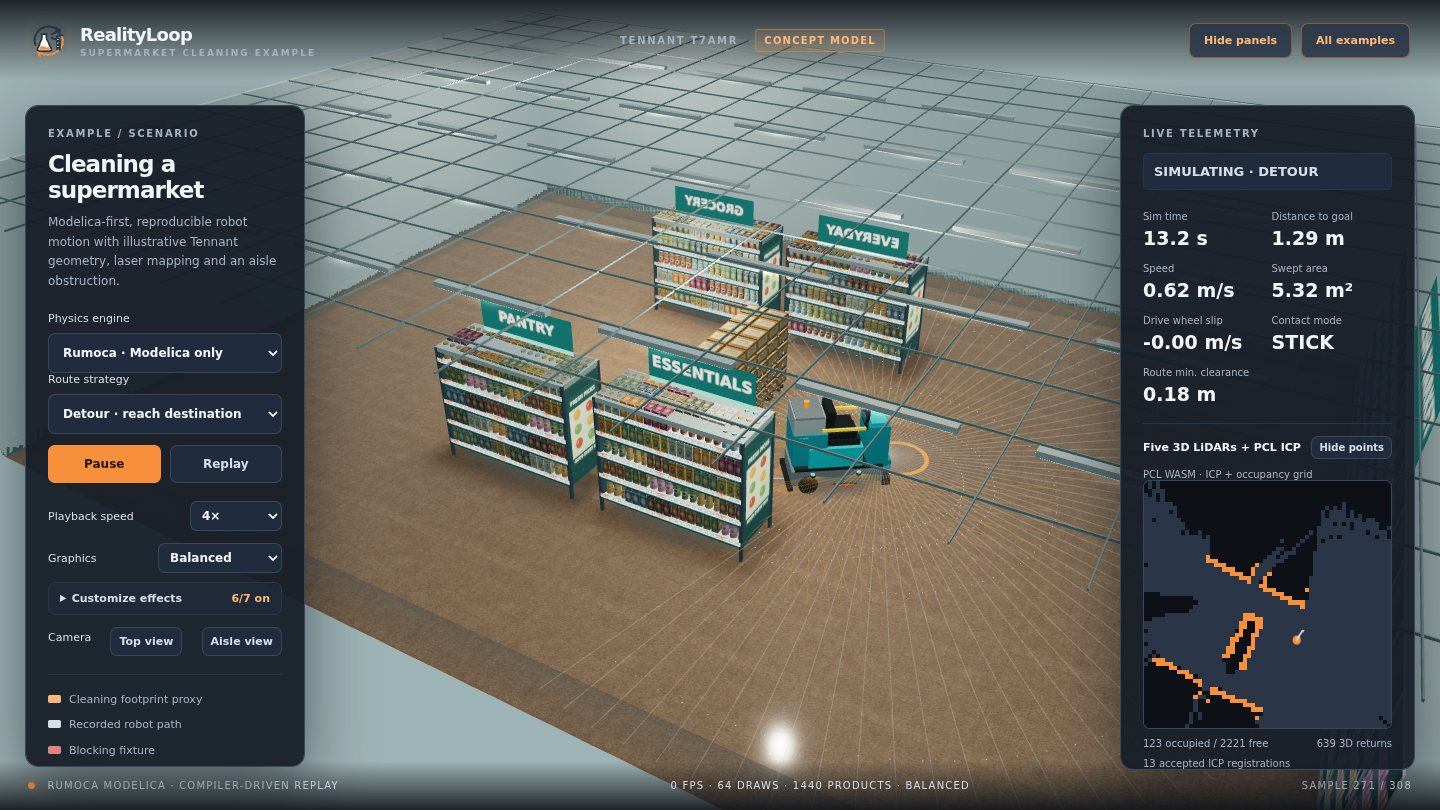
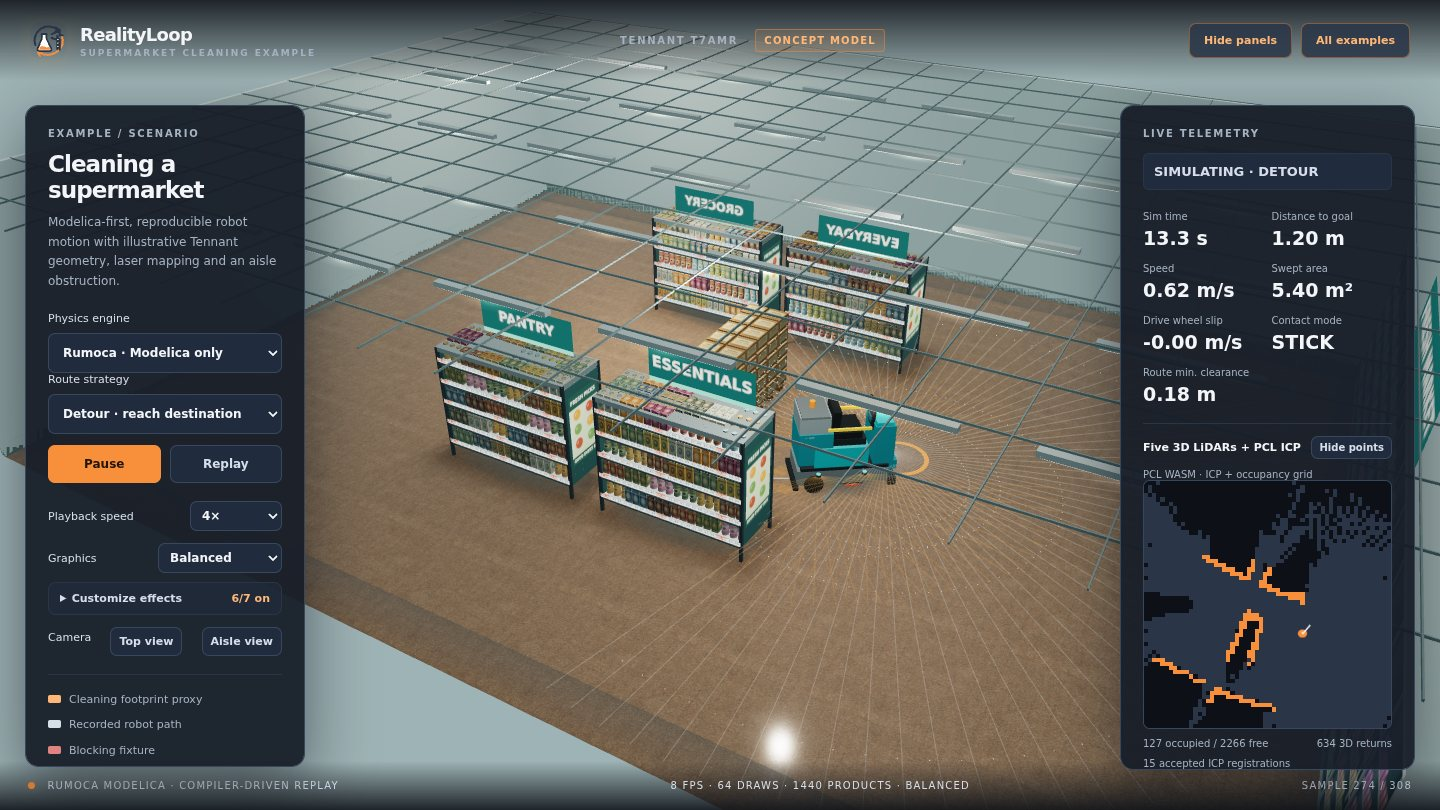
Compare GTAO and SSAO with selectable dynamic AO

diff --git a/viewer/supermarket-postfx.ts b/viewer/supermarket-postfx.ts
@@ -3,49 +3,108 @@ import {EffectComposer} from 'three/addons/postprocessing/EffectComposer.js'
 import {RenderPass} from 'three/addons/postprocessing/RenderPass.js'
 import {SSAOPass} from 'three/addons/postprocessing/SSAOPass.js'
 import {OutputPass} from 'three/addons/postprocessing/OutputPass.js'
-/** Screen-space AO is user-selectable but only supported on hardware WebGL2. */
+
+export type AoMethod='ssao'|'gtao'
+
+/** Both methods are optional GPU effects, never a dependency of the physics or
+ * baseline renderer. Test harnesses may explicitly allow software GPU paths. */
 export const useScreenSpaceAO=(
   requested:boolean,softwareRenderer:boolean,webgl2:boolean,
 ):boolean=>requested&&!softwareRenderer&&webgl2
 
+type GtaoConstructor=typeof import('three/addons/postprocessing/GTAOPass.js').GTAOPass
+type GtaoInstance=InstanceType<GtaoConstructor>
+
+/** GTAO and SSAO share a presentation pipeline but only one AO pass is alive
+ * at a time. GTAO is code-split; other presets do not fetch/compile it. */
 export const createSupermarketPostFX=(
   renderer:THREE.WebGLRenderer,scene:THREE.Scene,camera:THREE.Camera,
-  softwareRenderer:boolean,
+  softwareRenderer:boolean,{allowSoftwareForBenchmark=false}={},
 )=>{
   let composer:EffectComposer|undefined
-  let ao:SSAOPass|undefined
+  let ao:SSAOPass|GtaoInstance|undefined
+  let active:AoMethod|undefined
+  let gtaoConstructor:GtaoConstructor|undefined
+  let gtaoLoading:Promise<void>|undefined
+  let requested:AoMethod='ssao'
   let enabled=false
+  let disposed=false
+  let canvasWidth=1,canvasHeight=1
+
+  const disposePass=()=>{
+    ao?.dispose()
+    composer?.dispose()
+    composer=undefined
+    ao=undefined
+    active=undefined
+  }
   const resize=(width:number,height:number)=>{
+    canvasWidth=width;canvasHeight=height
     if(!composer||!ao)return
     const ratio=renderer.getPixelRatio()
     composer.setPixelRatio(ratio)
     composer.setSize(width,height)
-    // Half-res 8-tap SSAO; composite against the full-resolution color pass.
+    // Half-res AO only; main color buffer stays at scene resolution.
     ao.setSize(Math.max(1,Math.floor(width*ratio*.5)),
       Math.max(1,Math.floor(height*ratio*.5)))
   }
-  const setQuality=(requestedAO:boolean,width:number,height:number)=>{
+  const switchPass=(method:AoMethod)=>{
+    if(active===method)return
+    disposePass()
+    composer=new EffectComposer(renderer)
+    composer.addPass(new RenderPass(scene,camera))
+    if(method==='gtao'&&gtaoConstructor){
+      const pass=new gtaoConstructor(scene,camera,1,1)
+      pass.updateGtaoMaterial({
+        samples:8,radius:1.25,thickness:1.2,distanceFallOff:1,
+        distanceExponent:1.2,scale:1.85,
+      })
+      pass.updatePdMaterial({samples:8,rings:2,radius:5})
+      pass.blendIntensity=.88
+      ao=pass
+    }else{
+      const pass=new SSAOPass(scene,camera,1,1,8)
+      pass.kernelRadius=12
+      pass.minDistance=.005
+      pass.maxDistance=.16
+      ao=pass
+    }
+    composer.addPass(ao)
+    composer.addPass(new OutputPass())
+    active=method
+    resize(canvasWidth,canvasHeight)
+  }
+  const setQuality=(
+    requestedAO:boolean,width:number,height:number,method:AoMethod='ssao',
+  )=>{
+    requested=method
     enabled=useScreenSpaceAO(
-      requestedAO,softwareRenderer,renderer.capabilities.isWebGL2,
+      requestedAO,softwareRenderer&&!allowSoftwareForBenchmark,
+      renderer.capabilities.isWebGL2,
     )
     if(!enabled)return
-    if(!composer){
-      composer=new EffectComposer(renderer)
-      composer.addPass(new RenderPass(scene,camera))
-      ao=new SSAOPass(scene,camera,1,1,8)
-      // Slightly wider crevice/contact response. Keep the same eight samples
-      // and half-resolution pass; avoid turning AO into global darkening.
-      ao.kernelRadius=12
-      ao.minDistance=.005
-      ao.maxDistance=.16
-      composer.addPass(ao)
-      composer.addPass(new OutputPass())
+    if(method==='gtao'&&!gtaoConstructor){
+      switchPass('ssao') // graceful fallback while the module loads
+      if(!gtaoLoading){
+        gtaoLoading=import('three/addons/postprocessing/GTAOPass.js')
+          .then(({GTAOPass})=>{
+            if(disposed)return
+            gtaoConstructor=GTAOPass
+            if(enabled&&requested==='gtao')switchPass('gtao')
+          })
+          .catch(error=>{
+            console.warn('GTAO unavailable; SSAO remains active',error)
+          })
+      }
+    }else{
+      switchPass(method)
     }
     resize(width,height)
   }
   return {
     setQuality,resize,
+    getActiveMethod:():AoMethod|'off'=>enabled?active??'off':'off',
     render:()=>enabled&&composer?composer.render():renderer.render(scene,camera),
-    dispose:()=>{composer?.dispose();composer=undefined;ao=undefined},
+    dispose:()=>{disposed=true;disposePass()},
   }
 }

diff --git a/viewer/main.ts b/viewer/main.ts
@@ -2,7 +2,7 @@ import * as THREE from 'three'
 import { OrbitControls } from 'three/addons/controls/OrbitControls.js'
 import { createSupermarketInterior } from './supermarket-interior.ts'
 import {isSoftwareRenderer} from './renderer-capabilities.ts'
-import { createSupermarketPostFX } from './supermarket-postfx.ts'
+import { createSupermarketPostFX, type AoMethod } from './supermarket-postfx.ts'
 import { createReplayTrail } from './replay-trail.ts'
 import { createRobotContactShadow } from './contact-shading.ts'
 import {
@@ -48,6 +48,7 @@ controls.update()
 const interior = createSupermarketInterior(scene,renderer)
 const graphicsSelect=elem('visual-quality') as HTMLSelectElement
 const graphicsDetailSelect=elem('graphics-detail') as HTMLSelectElement
+const aoMethodSelect=elem('ao-method') as HTMLSelectElement
 const softwareRenderer=isSoftwareRenderer(renderer)
 document.body.classList.toggle('software-renderer',softwareRenderer)
 const postFX=createSupermarketPostFX(renderer,scene,camera,softwareRenderer)
@@ -72,7 +73,8 @@ const applyQuality=(
   renderer.toneMappingExposure=quality==='high' ? .94 : quality==='balanced' ? .99 : 1.08
   renderer.shadowMap.needsUpdate=true
   interior.setVisualQuality(quality,currentEffects)
-  postFX.setQuality(currentEffects.ambientOcclusion,innerWidth,innerHeight)
+  postFX.setQuality(currentEffects.ambientOcclusion,innerWidth,innerHeight,
+    aoMethodSelect.value as AoMethod)
   contactShadow.setQuality(quality,currentEffects.contactShadows)
   graphicsDetailSelect.value=quality
   for(const key of graphicsEffects){
@@ -81,12 +83,13 @@ const applyQuality=(
     input.disabled=(key==='ambientOcclusion'&&!canUseAO)||
       (key==='glare'&&!currentEffects.lighting)
   }
+  aoMethodSelect.disabled=!canUseAO||!currentEffects.ambientOcclusion
   elem('graphics-effects-count').textContent=
     enabledEffectCount(currentEffects)+'/'+graphicsEffects.length+' on'
 }
 elem('graphics-effects-hint').textContent=canUseAO
-  ? 'SSAO requires extra GPU work. Changes affect visualization only.'
-  : 'SSAO unavailable on this software/legacy renderer. Effects do not change physics.'
+  ? 'GTAO is experimental and usually slower than SSAO. Both are half-resolution and visualization-only.'
+  : 'Dynamic AO unavailable on this software/legacy renderer. Static AO and contact shadows still work.'
 applyQuality(softwareRenderer?'performance':'balanced')
 const goal = new THREE.Mesh(new THREE.RingGeometry(0.43,0.51,48),new THREE.MeshBasicMaterial({color:0xf78f3b,side:THREE.DoubleSide}))
 goal.rotation.x=-Math.PI/2;goal.position.set(7.5,0.016,0);scene.add(goal)
@@ -232,7 +235,8 @@ const render=(now:number)=>{
     }
     elem('render-stats').textContent=fps+' FPS · '+renderer.info.render.calls+
       ' DRAWS · '+interior.decorativeProductCount+' PRODUCTS · '+graphicsQuality.toUpperCase()+
-      (graphicsSelect.value==='custom'?' CUSTOM':'')
+      (graphicsSelect.value==='custom'?' CUSTOM':'')+
+      (currentEffects.ambientOcclusion?' · '+postFX.getActiveMethod().toUpperCase():'')
     fpsFrames=0
     fpsWindowStart=now
   }
@@ -262,6 +266,10 @@ graphicsSelect.addEventListener('change',()=>{
     applyQuality(graphicsDetailSelect.value as VisualQuality,currentEffects)
   else applyQuality(selected)
   autoQuality={quality:graphicsQuality,slowWindows:0,fastWindows:0}
+})
+aoMethodSelect.addEventListener('change',()=>{
+  graphicsSelect.value='custom'
+  applyQuality(graphicsQuality,{...currentEffects,ambientOcclusion:true})
 })
 graphicsDetailSelect.addEventListener('change',()=>{
   graphicsSelect.value='custom'

diff --git a/benchmarks/ao.ts b/benchmarks/ao.ts
@@ -1,0 +1,64 @@
+import * as THREE from 'three'
+import {createSupermarketInterior} from '../viewer/supermarket-interior.ts'
+import {createSupermarketPostFX,type AoMethod} from '../viewer/supermarket-postfx.ts'
+import {presetGraphicsEffects} from '../viewer/graphics-settings.ts'
+import {createTennantT7AMR} from '../viewer/tennant.ts'
+
+const width=560,height=315
+const renderer=new THREE.WebGLRenderer({
+  antialias:false,powerPreference:'low-power',preserveDrawingBuffer:true,
+})
+renderer.setSize(width,height)
+renderer.setPixelRatio(.7)
+renderer.outputColorSpace=THREE.SRGBColorSpace
+renderer.toneMapping=THREE.ACESFilmicToneMapping
+renderer.toneMappingExposure=.99
+renderer.shadowMap.enabled=false
+document.body.append(renderer.domElement)
+
+const scene=new THREE.Scene()
+const camera=new THREE.PerspectiveCamera(65,width/height,.1,90)
+camera.position.set(-2.35,1.68,-.1)
+camera.lookAt(6.9,1.55,-.1)
+const interior=createSupermarketInterior(scene,renderer)
+interior.setVisualQuality('balanced',{
+  ...presetGraphicsEffects('balanced'),
+  castShadows:false,ambientOcclusion:true,
+})
+const robot=createTennantT7AMR()
+robot.position.set(1.8,0,.25)
+scene.add(robot)
+
+// Test-only explicit opt-in for software WebGL. The production renderer
+// unconditionally rejects SSAO/GTAO on software GPU implementations.
+const postFX=createSupermarketPostFX(renderer,scene,camera,true,{
+  allowSoftwareForBenchmark:true,
+})
+const waitUntilActive=async(method:AoMethod)=>{
+  const deadline=performance.now()+20000
+  while(postFX.getActiveMethod()!==method){
+    if(performance.now()>deadline)throw Error('AO pass not ready: '+method)
+    await new Promise(resolve=>setTimeout(resolve,40))
+  }
+}
+const measure=async(method:'off'|AoMethod)=>{
+  postFX.setQuality(method!=='off',width,height,
+    method==='off'?'ssao':method)
+  if(method!=='off')await waitUntilActive(method)
+  // Shader compilation is excluded from timing. We still report GPU/software
+  // synchronous completion with gl.finish() to avoid measuring JS submission.
+  postFX.render()
+  renderer.getContext().finish()
+  const samples:number[]=[]
+  for(let i=0;i<2;i++){
+    const started=performance.now()
+    postFX.render()
+    renderer.getContext().finish()
+    samples.push(performance.now()-started)
+  }
+  const timing=samples.sort((a,b)=>a-b)[Math.floor(samples.length/2)]!
+  return {method,frameMs:Math.round(timing*10)/10,
+    viewport:[width,height],pixelRatio:renderer.getPixelRatio(),
+    draws:renderer.info.render.calls,active:postFX.getActiveMethod()}
+}
+Object.assign(window,{__realityloopAOTest:{measure,renderer:renderer.info}})

diff --git a/viewer/supermarket-interior.ts b/viewer/supermarket-interior.ts
@@ -185,10 +185,12 @@ export const createSupermarketInterior=(
   // This costs one small AO texture upload, not an SSAO render every frame.
   const staticOcclusion=new THREE.CanvasTexture(
     bakeFloorOcclusion(supermarketObstacles))
-  const shopWhite=baseMaterial(0xdce6df,.38,.18)
+  // Darker neutral shelf framing and pale steel decks give merchandise
+  // greater separation and depth without branding the physical materials.
+  const shopWhite=baseMaterial(0xcdd5d3,.42,.14)
   const brushedSteel=createBrushedSteelMaps()
-  const steel=baseMaterial(0x6c7f87,.33,.79)
-  const trim=baseMaterial(0xbecac8,.38,.45)
+  const steel=baseMaterial(0x525e63,.33,.79)
+  const trim=baseMaterial(0x9da9ab,.38,.45)
   for(const metal of [steel,trim]){
     metal.normalMap=brushedSteel.normal
     metal.normalScale.set(.22,.22)
@@ -409,8 +411,8 @@ export const createSupermarketInterior=(
   const rack=new THREE.Group()
   rack.name='PBR shelving and merchandise'
   interior.add(rack)
-  const border=baseMaterial(0xe5efee,.51,.16)
-  const band=baseMaterial(0x2c706f,.42,.23)
+  const border=baseMaterial(0xbec9c9,.51,.16)
+  const band=baseMaterial(0x46575c,.42,.23)
   for(const o of supermarketObstacles){
     // Position each box directly in the rack's coordinate system. Batching
     // by material now spans *all* fixtures, not one draw per shelf/material.

diff --git a/examples/supermarket.html b/examples/supermarket.html
@@ -19,7 +19,8 @@
       <label class="effect-switch"><input id="fx-lighting" data-effect="lighting" type="checkbox">Lamp illumination</label>
       <label class="effect-switch"><input id="fx-glare" data-effect="glare" type="checkbox">Lamp glare / glow</label>
       <label class="effect-switch"><input id="fx-contactShadows" data-effect="contactShadows" type="checkbox">Contact / crevice shadows</label>
-      <label class="effect-switch"><input id="fx-ambientOcclusion" data-effect="ambientOcclusion" type="checkbox">Screen-space AO <small>GPU only</small></label>
+      <label class="effect-switch"><input id="fx-ambientOcclusion" data-effect="ambientOcclusion" type="checkbox">Dynamic AO <small>GPU only</small></label>
+      <div class="control-row"><label for="ao-method">AO method</label><select id="ao-method"><option value="ssao" selected>SSAO · fast</option><option value="gtao">GTAO · experimental</option></select></div>
       <label class="effect-switch"><input id="fx-reflections" data-effect="reflections" type="checkbox">Environment reflections</label>
       <label class="effect-switch"><input id="fx-surfaceDetail" data-effect="surfaceDetail" type="checkbox">Normal / roughness maps</label>
       <label class="effect-switch"><input id="fx-castShadows" data-effect="castShadows" type="checkbox">Dynamic shadow map</label>

diff --git a/viewer/style.css b/viewer/style.css
@@ -35,7 +35,10 @@ canvas { display: block; }
   border-radius: 13px; backdrop-filter: blur(15px);
   box-shadow: var(--rl-shadow);
 }
-.controls { top: 105px; left: 25px; }
+.controls {
+  top: 105px; left: 25px;
+  max-height: calc(100vh - 145px); overflow-y: auto; scrollbar-width: thin;
+}
 .telemetry {
   right: 25px; top: 105px; width: 295px;
   max-height: calc(100vh - 145px); overflow-y: auto; scrollbar-width: thin;

diff --git a/benchmarks/ao.html b/benchmarks/ao.html
@@ -1,0 +1,2 @@
+<!doctype html>
+<html lang="en"><head><meta charset="UTF-8"/><meta name="viewport" content="width=device-width, initial-scale=1"/><title>AO comparison benchmark</title><style>body{margin:0;background:#222}canvas{display:block}</style></head><body><script type="module" src="./ao.ts"></script></body></html>

diff --git a/AGENTS.md b/AGENTS.md
@@ -13,4 +13,5 @@ RealityLoop is a standalone, customer-owned simulation/verification repository a
 - Headless and browser experiments must use DAG nodes. The implemented `RealityLoop.OfflineVideo` derivative consumes an immutable recorded simulation artifact via `realityloop video`, streams browser-free RGB diagnostic frames to FFmpeg/H.264, and records a new DAG invocation/manifest/content hash; it never reruns physics. Keep offline PBR render capture as a distinct optional future backend.
 - Keep the future async/streaming optimization DAG proposal **deferred research**, no release or architecture agreed. Do not expand this during normal simulation work.
 - Static robot body panels and fixed wheels/mounts may be batched by material in `viewer/static-robot-batcher.ts` to reduce draw calls, but never batch future articulated parts that need independent animation. The actual robot root pose, LiDAR extrinsics, physics and observation outputs remain unchanged. Decorative pallet cartons must stay inside the canonical blocker AABB (`tests/supermarket-decor.test.ts`); the distant painted cooler wall is outside the robot goal area and must never be described as a LiDAR-observable obstacle. Production previews may show procedurally rendered scenes, never third-party development reference photography.
+- Development-only visual comparison is permitted: an agent may look at an external image to improve the independently authored scene's camera composition, shelf density, product colors, ceiling fixture layout, material response, and lighting. Such imagery is a transient private development aid: keep downloads and comparisons **outside every Git checkout and build artifact**, never commit or publish the images, and do not add identifying filenames, source URLs, authors, credit, image IDs, or references to such aids to source comments, Git commits, README, agent handoffs, system definitions, tests, or release notes. Make all final assets original/procedural or separately licensed, and verify the produced scene against rendered app screenshots. Do not copy protected logos/product packaging or imply an image is an original simulator capture.
 - Keep PBR visuals strictly separate from canonical obstacle geometry. `viewer/supermarket-products.ts` provides 24 original SKU designs and 1,440 decorative indexed-batch product transforms in four shared-atlas packaging groups, 40 price strips, optional caps and one-draw-call performance LOD; `viewer/supermarket-interior.ts` uses bundled CC0 Poly Haven diffuse/normal/roughness textures for the floor. External photography can guide development privately, but **do not commit external reference photos, author names, source URLs, photo IDs, attribution/reference documents, or copies of development comparisons**. The standalone aisle view hides only display diagnostics; hiding panels must suppress the extra RGB preview WebGL pass, not sensor/DAG observations. Real GPU FPS must be measured; Chromium software rendering ~1–2 FPS is not acceptable for real-time operation. Verify `npm run check && npm test && npm run build && npm run build:web` and browser interaction/renderer errors before delivery. Never commit generated runs, secrets or reference supermarket photos.

diff --git a/README.md b/README.md
@@ -106,6 +106,8 @@ The floor reuses the bundled CC0 1K diffuse/normal/roughness maps plus improved 
 
 The default Realistic and Balanced lighting has lower ambient fill and slightly lower tone-mapped exposure, giving the local ceiling lights more influence. The reflection environment is approximate and **does not show accurate mirrored shelf/lamp geometry**. These effects are presentation-only and leave Modelica, collisions, LiDAR and DAG observations unchanged.
 
+Dynamic AO now supports **SSAO (default)** and **GTAO (experimental)** under **Customize effects → AO method**. Both render at half scene resolution with eight AO samples. GTAO additionally applies a small denoise pass, and its module is lazy-loaded only when requested on a hardware WebGL2 renderer. While loading or if unsupported, the system retains SSAO; software renderers retain static occlusion and contact shadows only. Compare algorithms reproducibly with `npm run bench:ao`; it uses a development-only software WebGL override and places captured frames/reports in the OS temporary folder, outside the repository. Real GPU timings and subjective quality remain to be validated before using GTAO as a default.
+
 Use the **Graphics** dropdown for **Auto**, **Realistic**, **Balanced**, **Performance**, or **Custom**. The expandable **Customize effects** menu allows independent control of lamp illumination, glare, contact/crevice shadows, hardware SSAO, environment reflections, surface normal/roughness maps, and dynamic shadow maps. Changing an effect automatically switches to Custom, preserving all other choices; a separate scene-detail/resolution selector allows mixed configurations. Glare requires lamp illumination. SSAO is disabled when WebGL2 or hardware acceleration is unavailable. Auto adjusts preset quality based on FPS; manually selected presets and Custom do not downgrade automatically. These are renderer-only options and do not restart or alter the recorded Modelica simulation. Enabling expensive effects on a slow GPU may reduce frame rate.
 
 Reproduce the graphics-tier browser smoke with `npm run check:visual` and an optional Playwright/Chromium installation (`REALITYLOOP_PLAYWRIGHT=/path/to/playwright`). The 2026-11-16 headless software renderer recorded ~15 FPS in Performance and only ~0–1 FPS in richer tiers; these values are not GPU benchmarks and do **not** establish acceptable real-time speed. The effect composition and screen-space AO need separate acceptance on a real GPU.
